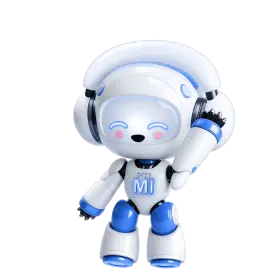
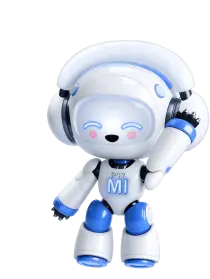
fix
Psy Mi img

Changed region(s): [[0.2, 0.2007, 1.0, 0.9749], [0.3714, 0.172, 0.4, 0.2007], [0.3143, 0.2007, 0.3429, 0.2294]]

diff --git a/src/components/HomePage/PsyMiHero/PsyMiImg/PsyMiImg.styled.ts b/src/components/HomePage/PsyMiHero/PsyMiImg/PsyMiImg.styled.ts
@@ -7,7 +7,7 @@ export const Img = styled(motion.img)`
   &.robot-img {
     position: absolute;
     bottom: -10px;
-    right: -27px;
+    right: -10px;
     height: auto;
     pointer-events: none;
   }

diff --git a/src/components/ModalOverlay/ModalOverlay.tsx b/src/components/ModalOverlay/ModalOverlay.tsx
@@ -31,3 +31,4 @@ const ModalOverlay = ({
 };
 
 export default ModalOverlay;
+ 
